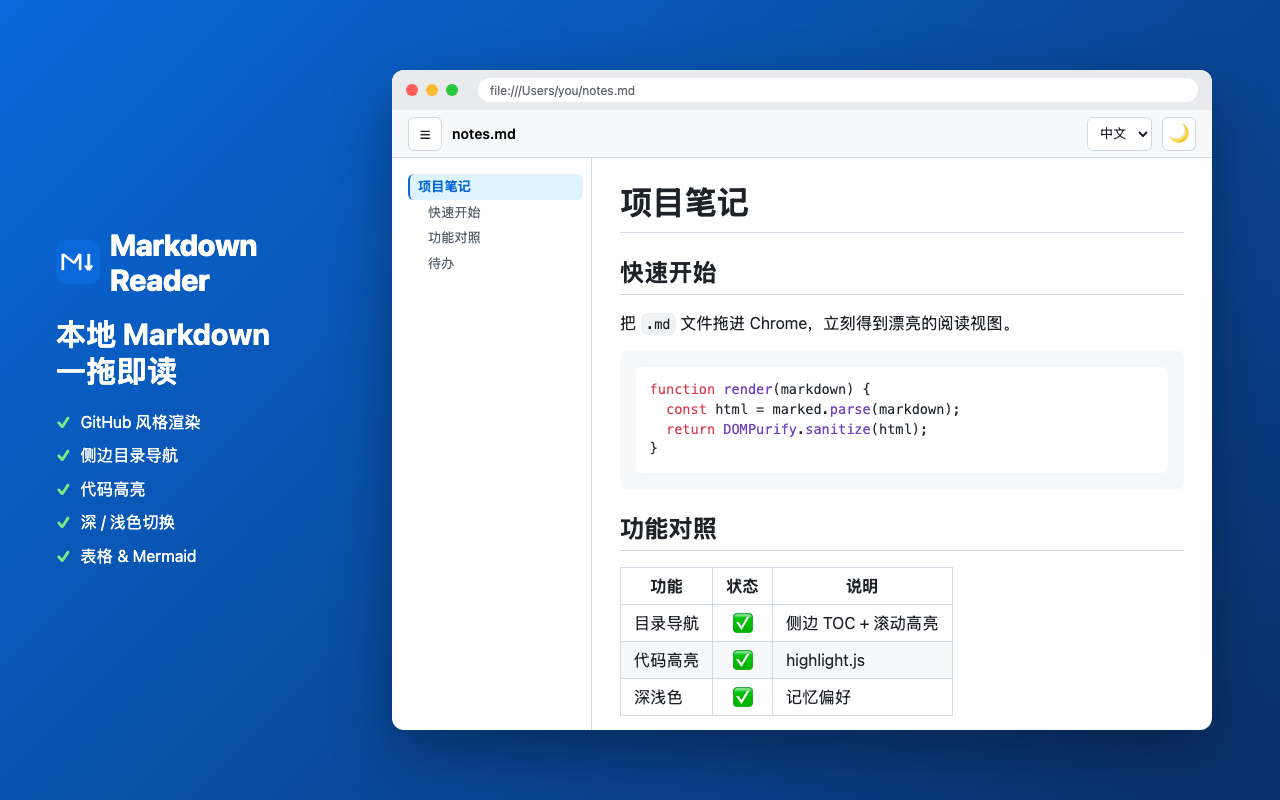
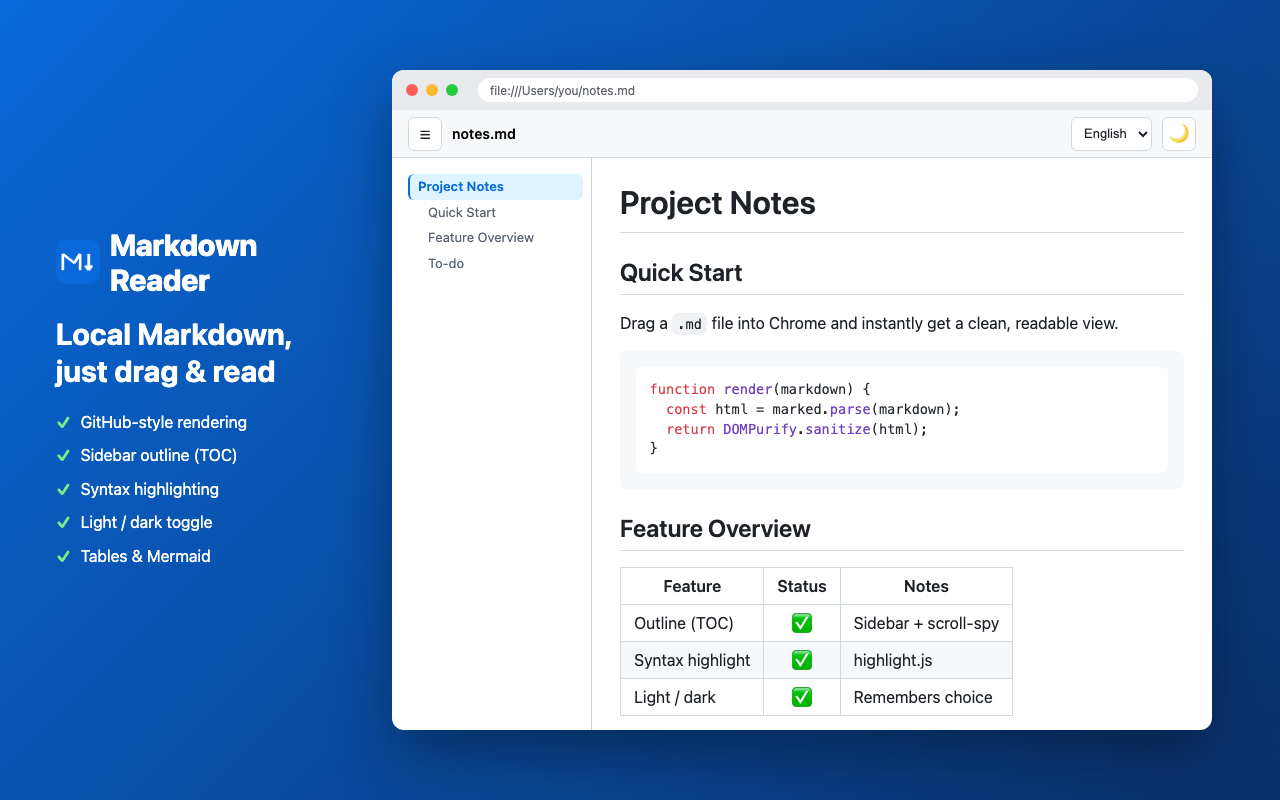
Localize store screenshot to English
Translate the promo screenshot's demo content and side copy to English
so the Chrome Web Store listing image matches the English-language store.

diff --git a/promo/_shot.html b/promo/_shot.html
@@ -104,13 +104,13 @@
   <div class="promo-wrap">
     <div class="promo-copy">
       <div class="logo"><img src="../icons/icon128.png" alt="" />Markdown Reader</div>
-      <h1>本地 Markdown<br/>一拖即读</h1>
+      <h1>Local Markdown,<br/>just drag &amp; read</h1>
       <ul>
-        <li>GitHub 风格渲染</li>
-        <li>侧边目录导航</li>
-        <li>代码高亮</li>
-        <li>深 / 浅色切换</li>
-        <li>表格 &amp; Mermaid</li>
+        <li>GitHub-style rendering</li>
+        <li>Sidebar outline (TOC)</li>
+        <li>Syntax highlighting</li>
+        <li>Light / dark toggle</li>
+        <li>Tables &amp; Mermaid</li>
       </ul>
     </div>
 
@@ -124,7 +124,7 @@
           <button id="md-toc-toggle">☰</button>
           <span id="md-title">notes.md</span>
           <span id="md-spacer"></span>
-          <select id="md-lang-select"><option>中文</option></select>
+          <select id="md-lang-select"><option>English</option></select>
           <button id="md-theme-toggle">🌙</button>
         </div>
         <div id="md-body">
@@ -143,11 +143,11 @@
   <script src="../src/toc.js"></script>
   <!-- 用 script 标签存放原始 Markdown，避免反引号在 JS 模板字符串里的转义问题 -->
   <script type="text/markdown" id="demo-md">
-# 项目笔记
+# Project Notes
 
-## 快速开始
+## Quick Start
 
-把 `.md` 文件拖进 Chrome，立刻得到漂亮的阅读视图。
+Drag a `.md` file into Chrome and instantly get a clean, readable view.
 
 ```javascript
 function render(markdown) {
@@ -156,19 +156,19 @@ function render(markdown) {
 }
 ```
 
-## 功能对照
+## Feature Overview
 
-| 功能 | 状态 | 说明 |
-| ---- | :--: | ---- |
-| 目录导航 | ✅ | 侧边 TOC + 滚动高亮 |
-| 代码高亮 | ✅ | highlight.js |
-| 深浅色 | ✅ | 记忆偏好 |
+| Feature | Status | Notes |
+| ------- | :----: | ----- |
+| Outline (TOC) | ✅ | Sidebar + scroll-spy |
+| Syntax highlight | ✅ | highlight.js |
+| Light / dark | ✅ | Remembers choice |
 
-## 待办
+## To-do
 
-- [x] 渲染本地文件
-- [x] 代码高亮
-- [ ] 上架 Chrome Web Store
+- [x] Render local files
+- [x] Syntax highlighting
+- [ ] Publish to Chrome Web Store
   </script>
   <script>
     const DEMO = document.getElementById("demo-md").textContent;